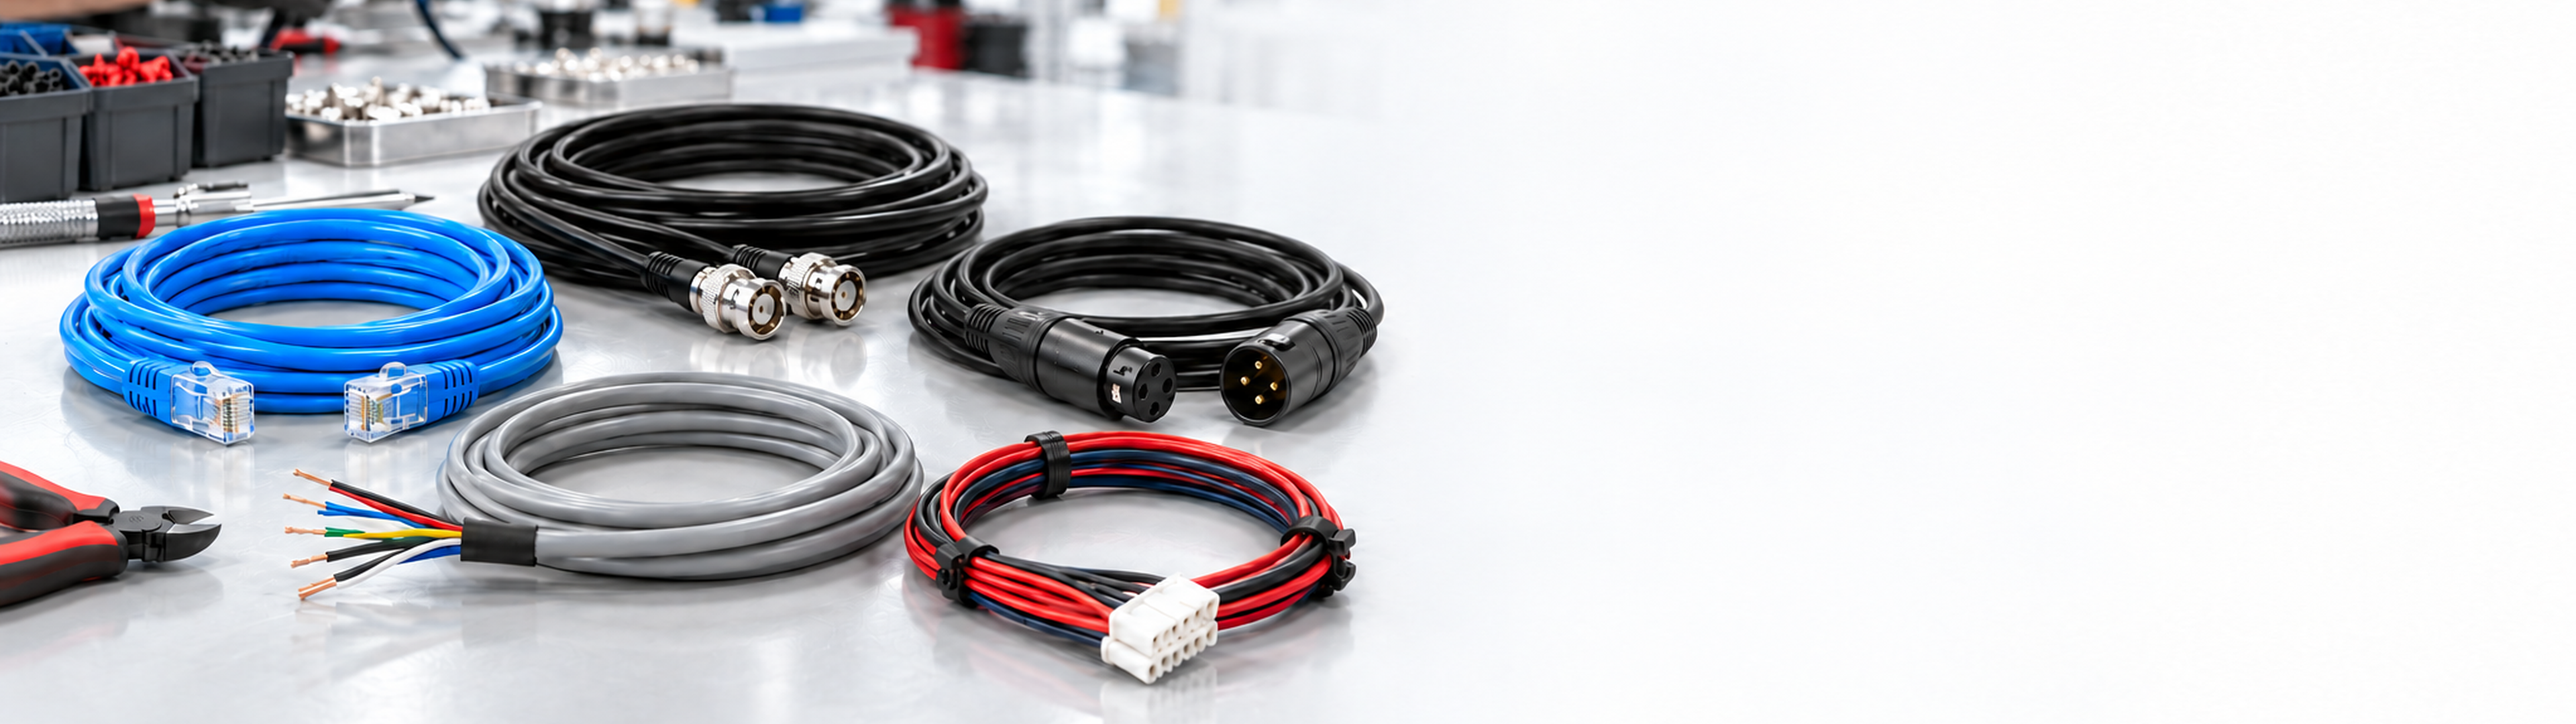
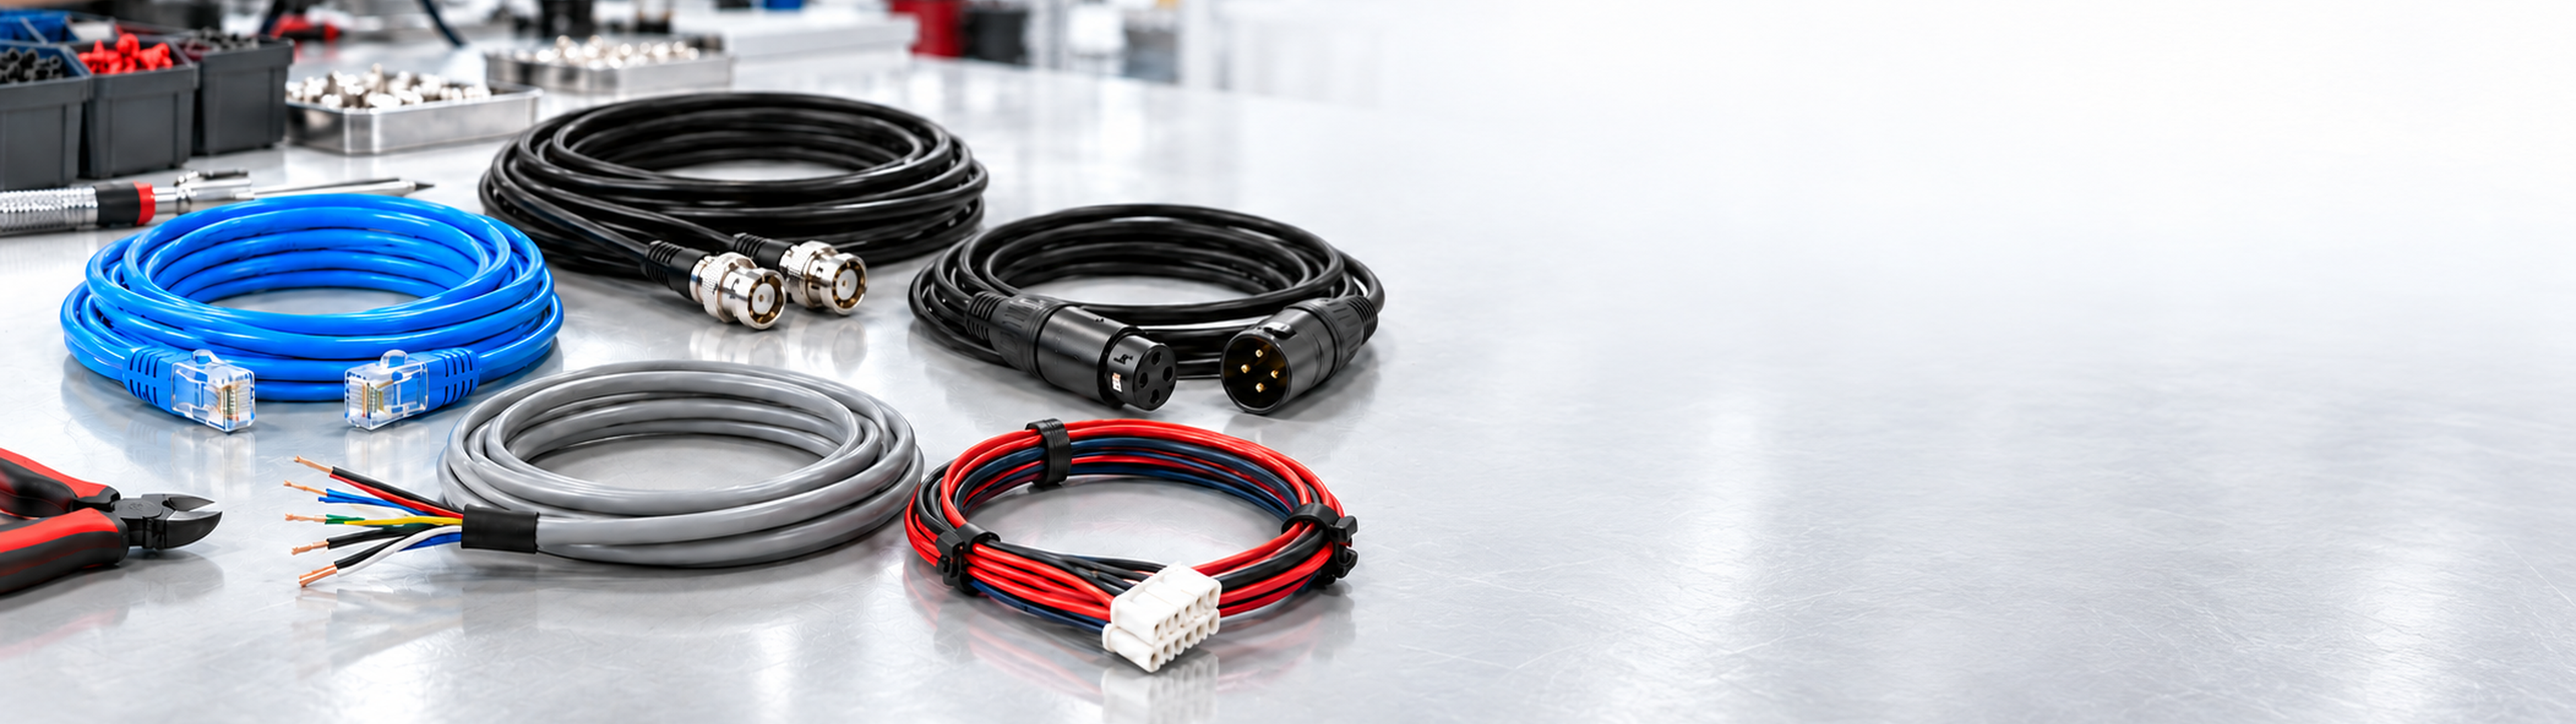
fix: new slide 2 workbench image, rotation speed 17s

diff --git a/pages/index.vue b/pages/index.vue
@@ -234,7 +234,7 @@ function prevSlide() { currentSlide.value = (currentSlide.value + 1) % 2 === 0 ?
 function pauseSlider() { clearInterval(sliderTimer) }
 function resumeSlider() { sliderTimer = setInterval(nextSlide, 5000) }
 
-onMounted(() => { sliderTimer = setInterval(nextSlide, 5000) })
+onMounted(() => { sliderTimer = setInterval(nextSlide, 17000) })
 onUnmounted(() => clearInterval(sliderTimer))
 
 const shopCategories = [
